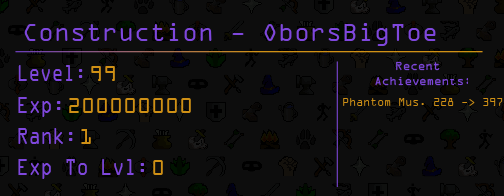
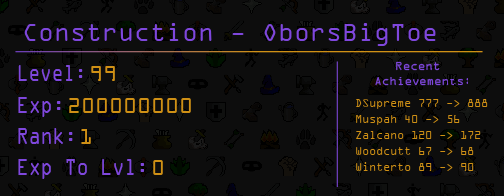
further refined skilladdtext function, adding the ability to pass recent achievement in. Added getvachievements function, pulls data from view, accepts arguments users and limit.

diff --git a/RuneBot/TBot.py b/RuneBot/TBot.py
@@ -7,17 +7,20 @@ import traceback
 def skilladdtext(Skill, User, Level, XP, Rank, ExpToLvl, RecAchv):
     image = Image.open(r"C:\Users\THerndon\Documents\GitHub\RuneBot\OSRSInterface\Skill Display.png")
     width, height = image.size
+    achvcoord = 96
     draw = ImageDraw.Draw(image)
     font = r"C:\Users\THerndon\Documents\GitHub\RuneBot\OSRSInterface\runescape_uf\OCRAEXT.TTF"
     titlefont = ImageFont.truetype(font, 26)
     statfont = ImageFont.truetype(font, 23)
-    recntachfont = ImageFont.truetype(font, 12)
+    recachvfont = ImageFont.truetype(font, 12)
     draw.text((22, 18), Skill + ' - ' + User, (127,71,221), font=titlefont)
     draw.text((89, 61), Level, (207,144,21), font=statfont)
     draw.text((67, 93), XP, (207,144,21), font=statfont)
     draw.text((79, 124), Rank, (207,144,21), font=statfont)
     draw.text((151, 155), ExpToLvl, (207,144,21), font=statfont)
-    draw.text((342, 95), 'Phantom Mus. 228 -> 397', (207, 144, 21), font=recntachfont)
+    for achv in RecAchv:
+        draw.text((355, achvcoord), achv, (207, 144, 21), font=recachvfont)
+        achvcoord = achvcoord + 16
     image.save(r"C:\Users\THerndon\Documents\GitHub\RuneBot\OSRSInterface\Final_SkillDis.png")
     print('Image created')
 
@@ -51,16 +54,17 @@ def getcategories():
         conn.commit()
         return 'error'
 
-def getvachievements():
+def getvachievements(Users, Limit=5):
+    achvs = []
     try:
-        Users = []
-        conn = dbconnection(r"C:\Users\THerndon\Documents\GitHub\RuneBot\RuneBot\RuneBotDB.db")
-        cur = conn.cursor()
-        cur.execute("SELECT * FROM v_achievements")
-        rows = cur.fetchall()
-        for i in rows:
-            Users.append(list(i))
-        return Users
+        for i in Users:
+            conn = dbconnection(r"C:\Users\THerndon\Documents\GitHub\RuneBot\RuneBot\RuneBotDB.db")
+            cur = conn.cursor()
+            cur.execute("SELECT * FROM v_achievements WHERE UserName = ? ORDER BY Date DESC LIMIT ?", (i, Limit))
+            rows = cur.fetchall()
+            for i in rows:
+                achvs.append(list(i))
+        return achvs
     except:
         conn = dbconnection(r"C:\Users\THerndon\Documents\GitHub\RuneBot\RuneBot\RuneBotDB.db")
         cur = conn.cursor()
@@ -90,12 +94,11 @@ def getusers():
         conn.commit()
         return 'error'
 
-def endofday():
-    users = getusers()
+def endofday(users):
     startendstats = []
     conn = dbconnection(r"C:\Users\THerndon\Documents\GitHub\RuneBot\RuneBot\RuneBotDB.db")
     c = conn.cursor()
-    dt = date.today() - timedelta(5)
+    dt = date.today() - timedelta(6)
     fdt = dt.strftime("%m/%d/%Y")
     sfdt = (fdt+"%")
     for user in users:
@@ -114,7 +117,7 @@ def endofday():
 
 #endofday()
 #skilladdtext('Construction', 'OborsBigToe', '99', '200000000', '1', '0', '0')
-
-print (endofday())
-
-print (getvachievements())
+Users = ['OborsBigToe', 'Grewp Eyeron']
+#print (getvachievements(Users, 5))
+achievlist = ["DSupreme 777 -> 888","Muspah 40 -> 56","Zalcano 120 -> 172", "Woodcutt 67 -> 68", "Winterto 89 -> 90"]
+skilladdtext('Construction', 'OborsBigToe', '99', '200000000', '1', '0', achievlist)
